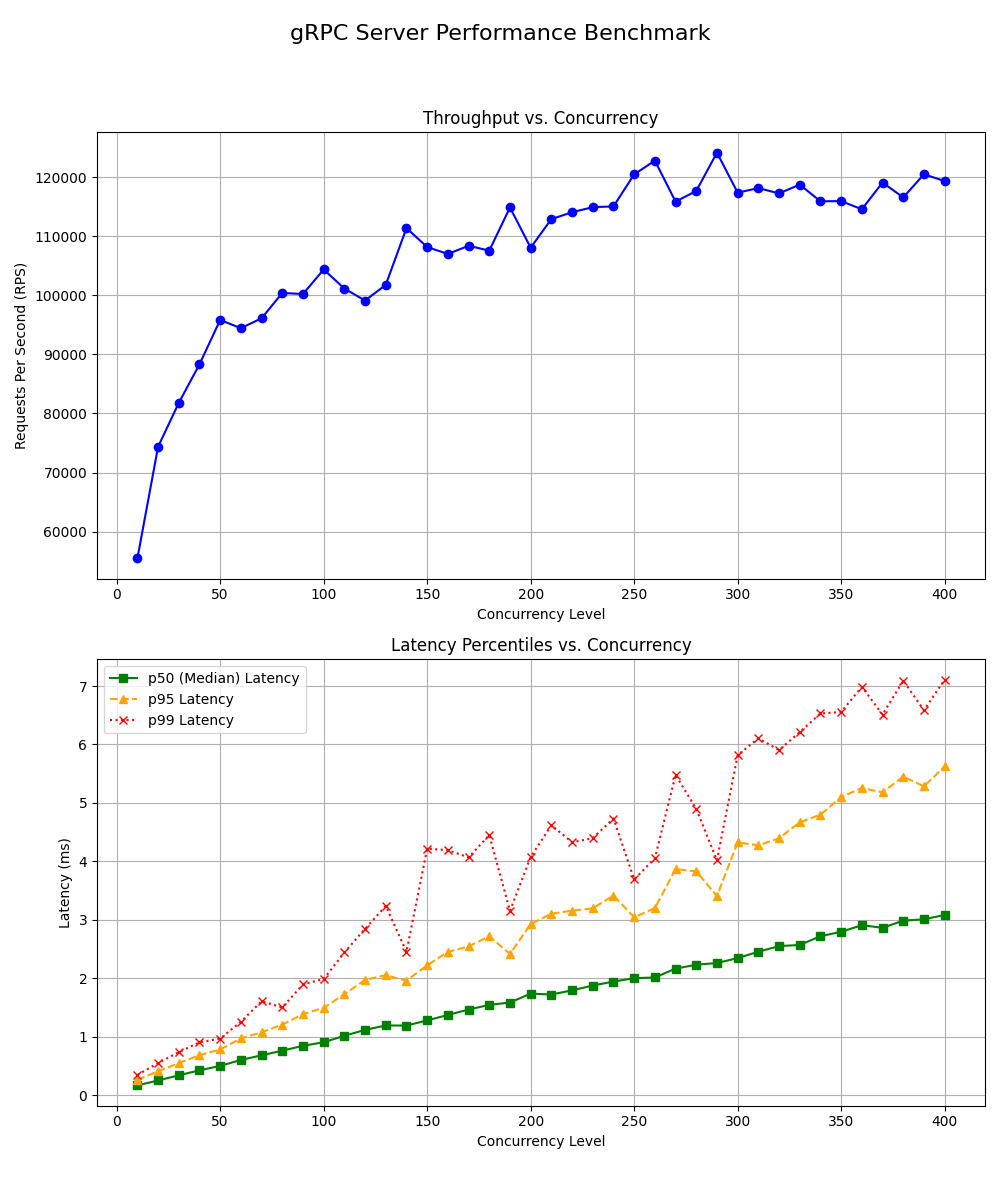
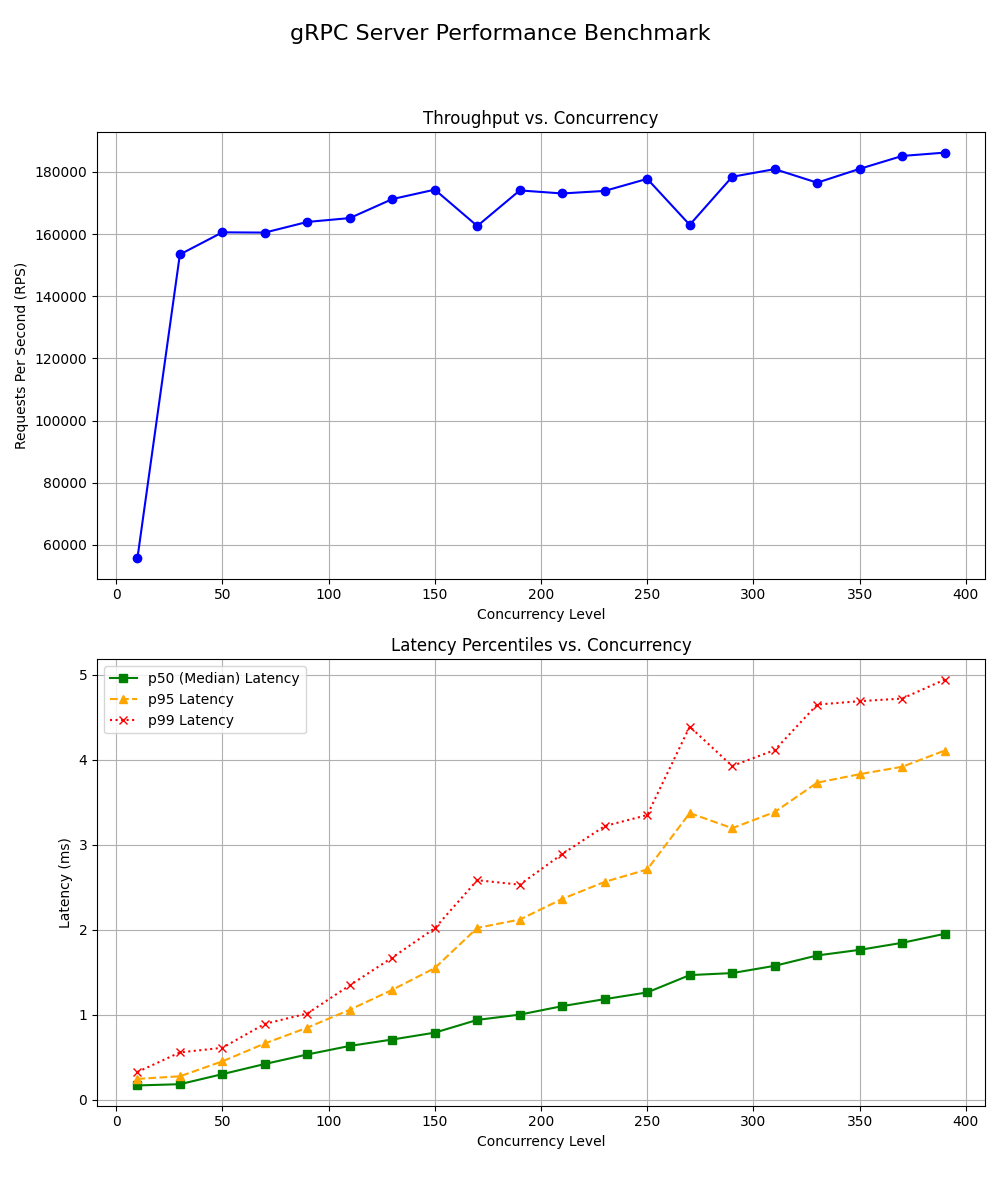
多核Server测试，将 worker_threads 设置为 5 以提升性能，channel大小为100，仅 需调整线程数达成多并发测试。

diff --git a/src/client.rs b/src/client.rs
@@ -2,7 +2,7 @@ use std::fs::File;
 use std::io::{BufWriter, Write};
 use std::time::{Duration, Instant};
 use tokio::sync::mpsc;
-use tonic::transport::{Channel, Endpoint};
+use tonic::transport::Endpoint; // 引入 Endpoint
 
 use hello_world::greeter_client::GreeterClient;
 use hello_world::HelloRequest;
@@ -11,14 +11,12 @@ pub mod hello_world {
     tonic::include_proto!("helloworld");
 }
 
-// 用于从并发任务收集结果
 #[derive(Debug)]
 struct TaskResult {
     latency: Duration,
     is_success: bool,
 }
 
-// 用于从 benchmark 函数返回结构化的结果
 #[derive(Debug)]
 struct BenchmarkResult {
     concurrency: u32,
@@ -29,64 +27,57 @@ struct BenchmarkResult {
     p99_latency: Duration,
 }
 
-// 修改后的函数，不再打印，而是返回 BenchmarkResult
 async fn run_concurrency_benchmark(
     server_addr: &str,
     concurrency: u32,
     total_requests: u32,
 ) -> Result<BenchmarkResult, Box<dyn std::error::Error>> {
-    let (tx, mut rx) = mpsc::channel::<TaskResult>(concurrency as usize);
-    
-    // 1.【删除】这行代码，我们不再需要这个单例 client
-    // let client = GreeterClient::connect(server_addr.to_string()).await?; 
+    let (tx, mut rx) = mpsc::channel::<TaskResult>(50000); // 稍微加大一点 channel 缓冲
 
     let benchmark_start = Instant::now();
 
-    // 2.【新增】创建连接池 (Connection Pool)
-    let pool_size = 10; // 建议设置 10-20，足够喂饱单核 Server
+    // 1. 创建连接池
+    let pool_size = 100; 
     let mut channels = Vec::with_capacity(pool_size);
     
-    // println!("Connecting to server with {} connections...", pool_size);
+    // 建立连接不计入 RPS 计算时间，或者你可以选择计入，
+    // 但对于高吞吐测试，我们通常更关心连接建立后的“稳定吞吐”。
+    // 这里我们先建好连接。
     for _ in 0..pool_size {
-        // 使用 Endpoint::from_shared 处理动态地址字符串
-        // connect().await 会建立真正的 TCP 连接
         let channel = Endpoint::from_shared(server_addr.to_string())?
+            .tcp_nodelay(true) // 【建议】开启 TCP_NODELAY，减少延迟抖动
             .connect()
             .await?;
         channels.push(channel);
     }
 
-    // 3.【修改】并发循环
+    // 2. 启动压测任务
+    // 记录开始时间（排除连接建立时间，测纯粹的 Request/Response 处理能力）
+    let processing_start = Instant::now();
+
     for i in 0..concurrency {
         let tx_clone = tx.clone();
-
-        // 4.【关键】轮询 (Round-Robin) 从池子中获取 Channel
-        // 这样并发任务会均匀分布在这 10 条 TCP 连接上
         let channel = channels[i as usize % pool_size].clone();
-        
-        // 5.【关键】为当前任务创建一个专属的 Client
         let mut client = GreeterClient::new(channel);
 
+        let requests_per_task = total_requests / concurrency;
+
         tokio::spawn(async move {
-            let requests_per_task = total_requests / concurrency;
             for _ in 0..requests_per_task {
                 let request = tonic::Request::new(HelloRequest { name: "Tonic".into() });
                 let task_start = Instant::now();
-                
-                // 6.【关键】这里使用的是当前任务专属的 client，而不是外层的 clone
                 let response = client.say_hello(request).await;
-                
                 let latency = task_start.elapsed();
+                
                 let result = TaskResult { latency, is_success: response.is_ok() };
                 
-                if tx_clone.send(result).await.is_err() {
-                    // eprintln!("Receiver dropped, exiting task {}", i); // 压测时尽量减少 print
-                    break;
-                }
+                // 忽略错误，防止 channel 满导致 panic，实际压测中 channel 可能会满
+                let _ = tx_clone.send(result).await; 
             }
         });
     }
 
+    // 关闭发送端，等待接收完成
     drop(tx);
 
     let mut results = Vec::with_capacity(total_requests as usize);
@@ -94,7 +85,8 @@ async fn run_concurrency_benchmark(
         results.push(result);
     }
 
-    let benchmark_duration = benchmark_start.elapsed();
+    // 计算耗时（使用 processing_start）
+    let benchmark_duration = processing_start.elapsed();
     let total_processed = results.len();
 
     if total_processed == 0 {
@@ -108,71 +100,77 @@ async fn run_concurrency_benchmark(
     latencies.sort();
 
     let rps = total_processed as f64 / benchmark_duration.as_secs_f64();
+    
+    // 简单的统计逻辑
     let avg_latency = if !latencies.is_empty() {
         latencies.iter().sum::<Duration>() / latencies.len() as u32
     } else {
         Duration::default()
     };
-    let p50_latency = latencies.get(latencies.len() / 2).cloned().unwrap_or_default();
-    let p95_latency = latencies.get((latencies.len() as f64 * 0.95) as usize).cloned().unwrap_or_default();
-    let p99_latency = latencies.get((latencies.len() as f64 * 0.99) as usize).cloned().unwrap_or_default();
+    let p50 = latencies.get(latencies.len() / 2).cloned().unwrap_or_default();
+    let p95 = latencies.get((latencies.len() as f64 * 0.95) as usize).cloned().unwrap_or_default();
+    let p99 = latencies.get((latencies.len() as f64 * 0.99) as usize).cloned().unwrap_or_default();
 
     Ok(BenchmarkResult {
         concurrency,
         rps,
         avg_latency,
-        p50_latency,
-        p95_latency,
-        p99_latency,
+        p50_latency: p50,
+        p95_latency: p95,
+        p99_latency: p99,
     })
 }
 
-#[tokio::main]
+#[tokio::main]  
 async fn main() -> Result<(), Box<dyn std::error::Error>> {
-    // --- 1. 定义测试计划和输出文件 ---
     let server_addr = "http://[::1]:50051";
-    let total_requests_per_run = 100000;
-
     
+    // 【关键修改 1】加大请求量！
+    // 之前是 100,000。对于 20万 RPS 的目标，这只够跑 0.5秒。
+    // 改为 5,000,000 (500万)，确保每个测试跑 20秒左右，给 CPU 足够的时间满载。
+    let total_requests_per_run = 5_000_000; 
 
     let start_concurrency = 10;
     let max_concurrency = 400;
-    let stride = 10; // The step or interval
+    let stride = 20; // 稍微调大步长，因为测试时间变长了，减少等待时间
 
-    // 使用 Rust 的 range 和 iterators 自动生成测试列表
     let concurrency_levels: Vec<u32> = (start_concurrency..=max_concurrency)
         .step_by(stride)
         .collect();
 
-
     let output_filename = "benchmark_results.csv";
-
-    // --- 2. 创建文件并写入 CSV 表头 ---
     let file = File::create(output_filename)?;
     let mut writer = BufWriter::new(file);
     writeln!(writer, "concurrency,rps,avg_latency_ms,p50_latency_ms,p95_latency_ms,p99_latency_ms")?;
 
-    println!("Starting benchmark suite...");
-    println!("Results will be saved to '{}'", output_filename);
+    println!("Starting benchmark suite (Dual Core)...");
+    println!("Requests per run: {}", total_requests_per_run);
 
-    // --- 3. 循环执行所有测试 ---
     for &concurrency in concurrency_levels.iter() {
         println!("Running test with concurrency = {}...", concurrency);
 
         let result = run_concurrency_benchmark(server_addr, concurrency, total_requests_per_run).await?;
 
-        // 将 Duration 转换为毫秒浮点数以便写入 CSV
-        let avg_ms = result.avg_latency.as_secs_f64() * 1000.0;
-        let p50_ms = result.p50_latency.as_secs_f64() * 1000.0;
-        let p95_ms = result.p95_latency.as_secs_f64() * 1000.0;
-        let p99_ms = result.p99_latency.as_secs_f64() * 1000.0;
+        println!(
+            " -> Concurrency: {}, RPS: {:.2}, P99: {:.2}ms", 
+            result.concurrency, result.rps, result.p99_latency.as_secs_f64() * 1000.0
+        );
 
-        // --- 4. 将结果行写入文件 ---
         writeln!(
             writer,
             "{},{},{:.4},{:.4},{:.4},{:.4}",
-            result.concurrency, result.rps, avg_ms, p50_ms, p95_ms, p99_ms
+            result.concurrency, result.rps, 
+            result.avg_latency.as_secs_f64() * 1000.0,
+            result.p50_latency.as_secs_f64() * 1000.0,
+            result.p95_latency.as_secs_f64() * 1000.0,
+            result.p99_latency.as_secs_f64() * 1000.0
         )?;
+
+        // 【关键修改 2】冷却时间
+        // 每次测试跑完后，休息 2 秒。
+        // 让操作系统处理完上一个测试遗留的 TIME_WAIT 连接，
+        // 防止下一个测试因为端口耗尽而抖动。
+        tokio::time::sleep(Duration::from_secs(2)).await; 
     }
 
     println!("\nBenchmark suite finished successfully!");

diff --git a/src/server.rs b/src/server.rs
@@ -64,12 +64,12 @@ impl Greeter for MyGreeter {
         Ok(Response::new(ReceiverStream::new(rx)))
     }
 }
-
-#[tokio::main(flavor = "current_thread")]
+ 
+#[tokio::main(worker_threads = 5)]  
 async fn main() -> Result<(), Box<dyn std::error::Error>> {
     // 1. 定义并解析监听地址
     let addr = "[::1]:50051".parse()?;
-
+ 
     // 2. 创建我们服务逻辑的实例
     let greeter = MyGreeter::default();
 
